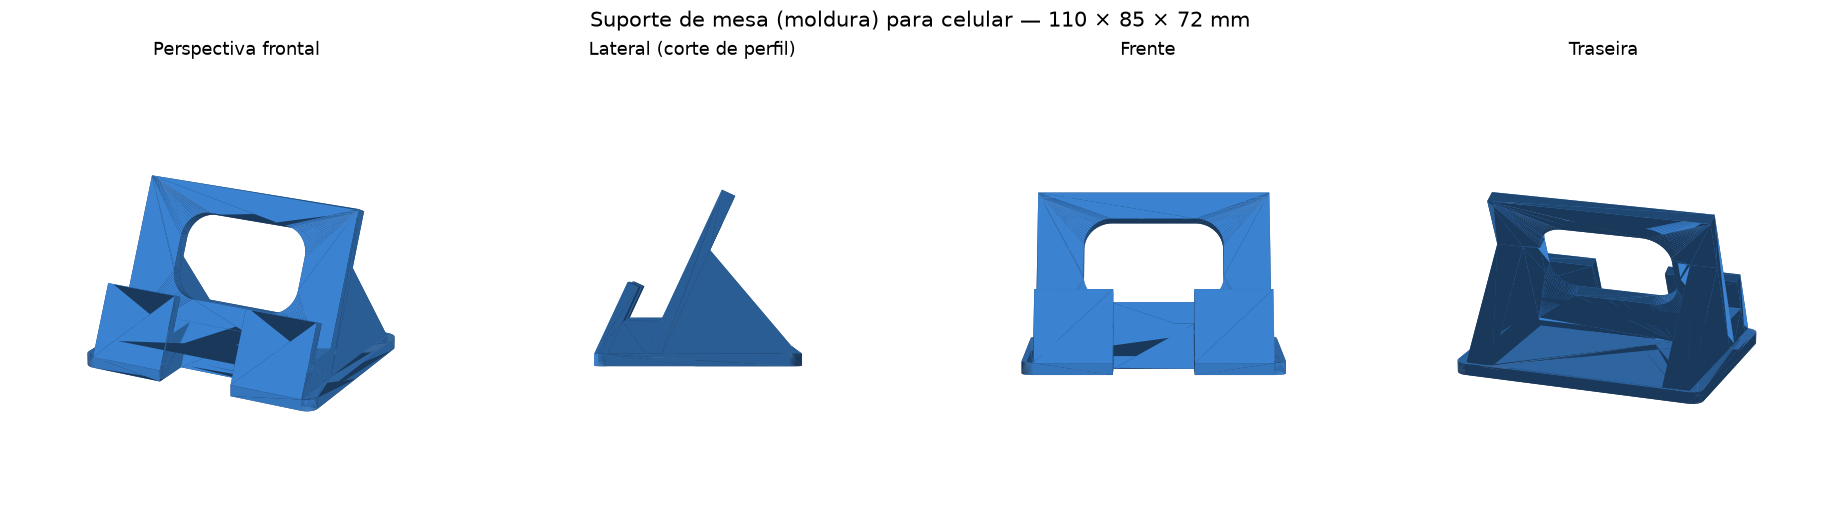
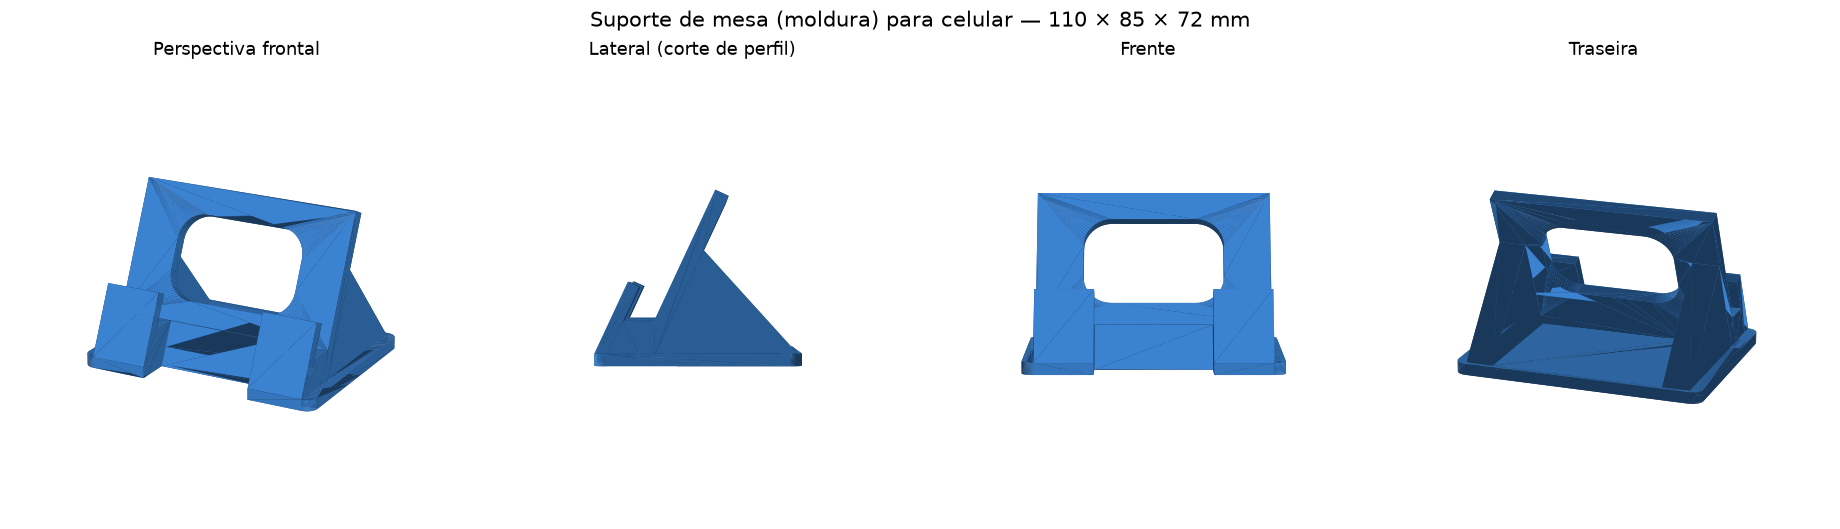
Ajusta o suporte as medidas do Redmi 13C
Com o modelo confirmado (168 x 78 x 8,09 mm, 192 g), o encaixe deixa de
ser genérico e passa a ser dimensionado:

- canal de 14 para 11,5 mm (8,09 mm do aparelho + 3,4 mm para capa fina),
  reduzindo a folga em que o aparelho balançava
- moldura avançada 2,7 mm (Y0 de 21 para 18,3 mm) para a aba voltar a
  ficar rente à frente da base com o canal mais estreito
- vão central de 34 para 50 mm, liberando o conector USB-C e o
  alto-falante inferior; sobram 14 mm de piso de apoio de cada lado

Volume cai de 126 para 119 cm3 (~56 g em PLA com 20% de preenchimento).

Claude-Session: https://claude.ai/code/session_01PhbkEvamGEdY1sbM7r8gzd

diff --git a/gerar_suporte.py b/gerar_suporte.py
@@ -5,8 +5,8 @@ Todas as medidas em milimetros.
 Referencial: X = largura (0 no centro), Y = profundidade (0 na frente da base),
 Z = altura (0 na mesa).
 
-Serve para qualquer celular ate ~13 mm de espessura (com ou sem capinha),
-em retrato ou paisagem, e permite carregar o aparelho apoiado.
+Dimensionado para o Xiaomi Redmi 13C (168 x 78 x 8,09 mm), em retrato ou
+paisagem, com o aparelho podendo ser carregado apoiado.
 """
 import numpy as np
 import trimesh
@@ -22,14 +22,14 @@ TAN  = SIN / COS
 W_BASE, D_BASE, T_BASE, R_BASE = 110.0, 85.0, 5.0, 5.0   # base
 W_FRAME = 100.0                  # largura da moldura e da aba frontal
 
-Y0      = 21.0                   # face frontal da moldura, em Y, na altura Z=T_BASE
-CANAL   = 14.0                   # folga do canal (perpendicular ao celular)
+Y0      = 18.3                   # face frontal da moldura, em Y, na altura Z=T_BASE
+CANAL   = 11.5                   # canal: 8,1 mm do aparelho + folga p/ capa fina
 Z_PISO  = 18.0                   # altura do piso onde o celular apoia
 T_LIP, H_LIP = 5.0, 30.0         # aba frontal: espessura e comprimento na inclinacao
 T_SUP, L_SUP = 6.0, 74.0         # moldura: espessura e comprimento na inclinacao
 
 W_JAN, JAN_A, JAN_B, R_JAN = 60.0, 24.0, 62.0, 12.0      # janela da moldura
-W_CABO  = 34.0                   # largura do vao central para o cabo
+W_CABO  = 50.0                   # vao central: conector USB-C + alto-falante inferior
 T_FIN, Z_FIN = 12.0, 48.0        # nervuras traseiras
 
 

diff --git a/README.md b/README.md
@@ -1,5 +1,6 @@
 # Suporte de mesa (moldura) para celular — impressão 3D
 
+Dimensionado para o **Xiaomi Redmi 13C** (168 × 78 × 8,09 mm, 192 g).
 Peça única, sem encaixes e sem parafusos. Segura o celular em pé na mesa,
 em **retrato ou paisagem**, e permite **carregar o aparelho apoiado**.
 
@@ -13,18 +14,23 @@ em **retrato ou paisagem**, e permite **carregar o aparelho apoiado**.
 |---|---|
 | Dimensões externas | 110 × 85 × 72 mm |
 | Inclinação do aparelho | 25° em relação à vertical |
-| Canal de apoio | 14 mm (serve de ~6 a 13 mm de espessura, com ou sem capinha) |
+| Canal de apoio | 11,5 mm (aparelho de 8,09 mm + 3,4 mm de folga para capa fina) |
 | Altura do piso acima da mesa | 18 mm |
 | Aba de retenção acima do piso | 14 mm |
-| Vão central para o cabo | 34 mm de largura × 18 mm de altura, aberto até a frente |
-| Volume | 126 cm³ (≈ 55–60 g em PLA com 20% de preenchimento) |
+| Vão central para o cabo | 50 mm de largura × 18 mm de altura, aberto até a frente |
+| Volume | 119 cm³ (≈ 56 g em PLA com 20% de preenchimento) |
 
-O canal é propositalmente folgado: o celular encosta na moldura e a aba
-frontal apenas impede que ele escorregue. Por isso serve para praticamente
-qualquer smartphone, com ou sem capinha, sem precisar de medida exata.
+O aparelho encosta na moldura e a aba frontal impede que escorregue. A
+folga de 3,4 mm acomoda uma capa fina; com capa grossa (tipo anti-impacto)
+é preciso aumentar `CANAL` no script e regerar.
+
+O vão central de 50 mm deixa livres o conector USB-C **e** o alto-falante
+inferior — a aresta de baixo do aparelho apoia nos 14 mm de piso de cada
+lado do vão.
 
 Em paisagem o aparelho apoia sobre os 100 mm da aba e sobrepõe as laterais —
-é o uso normal e continua estável.
+é o uso normal e continua estável (centro de massa do conjunto a 41 mm, contra
+85 mm de base; em retrato, 55 mm).
 
 ## Configuração de impressão
 
